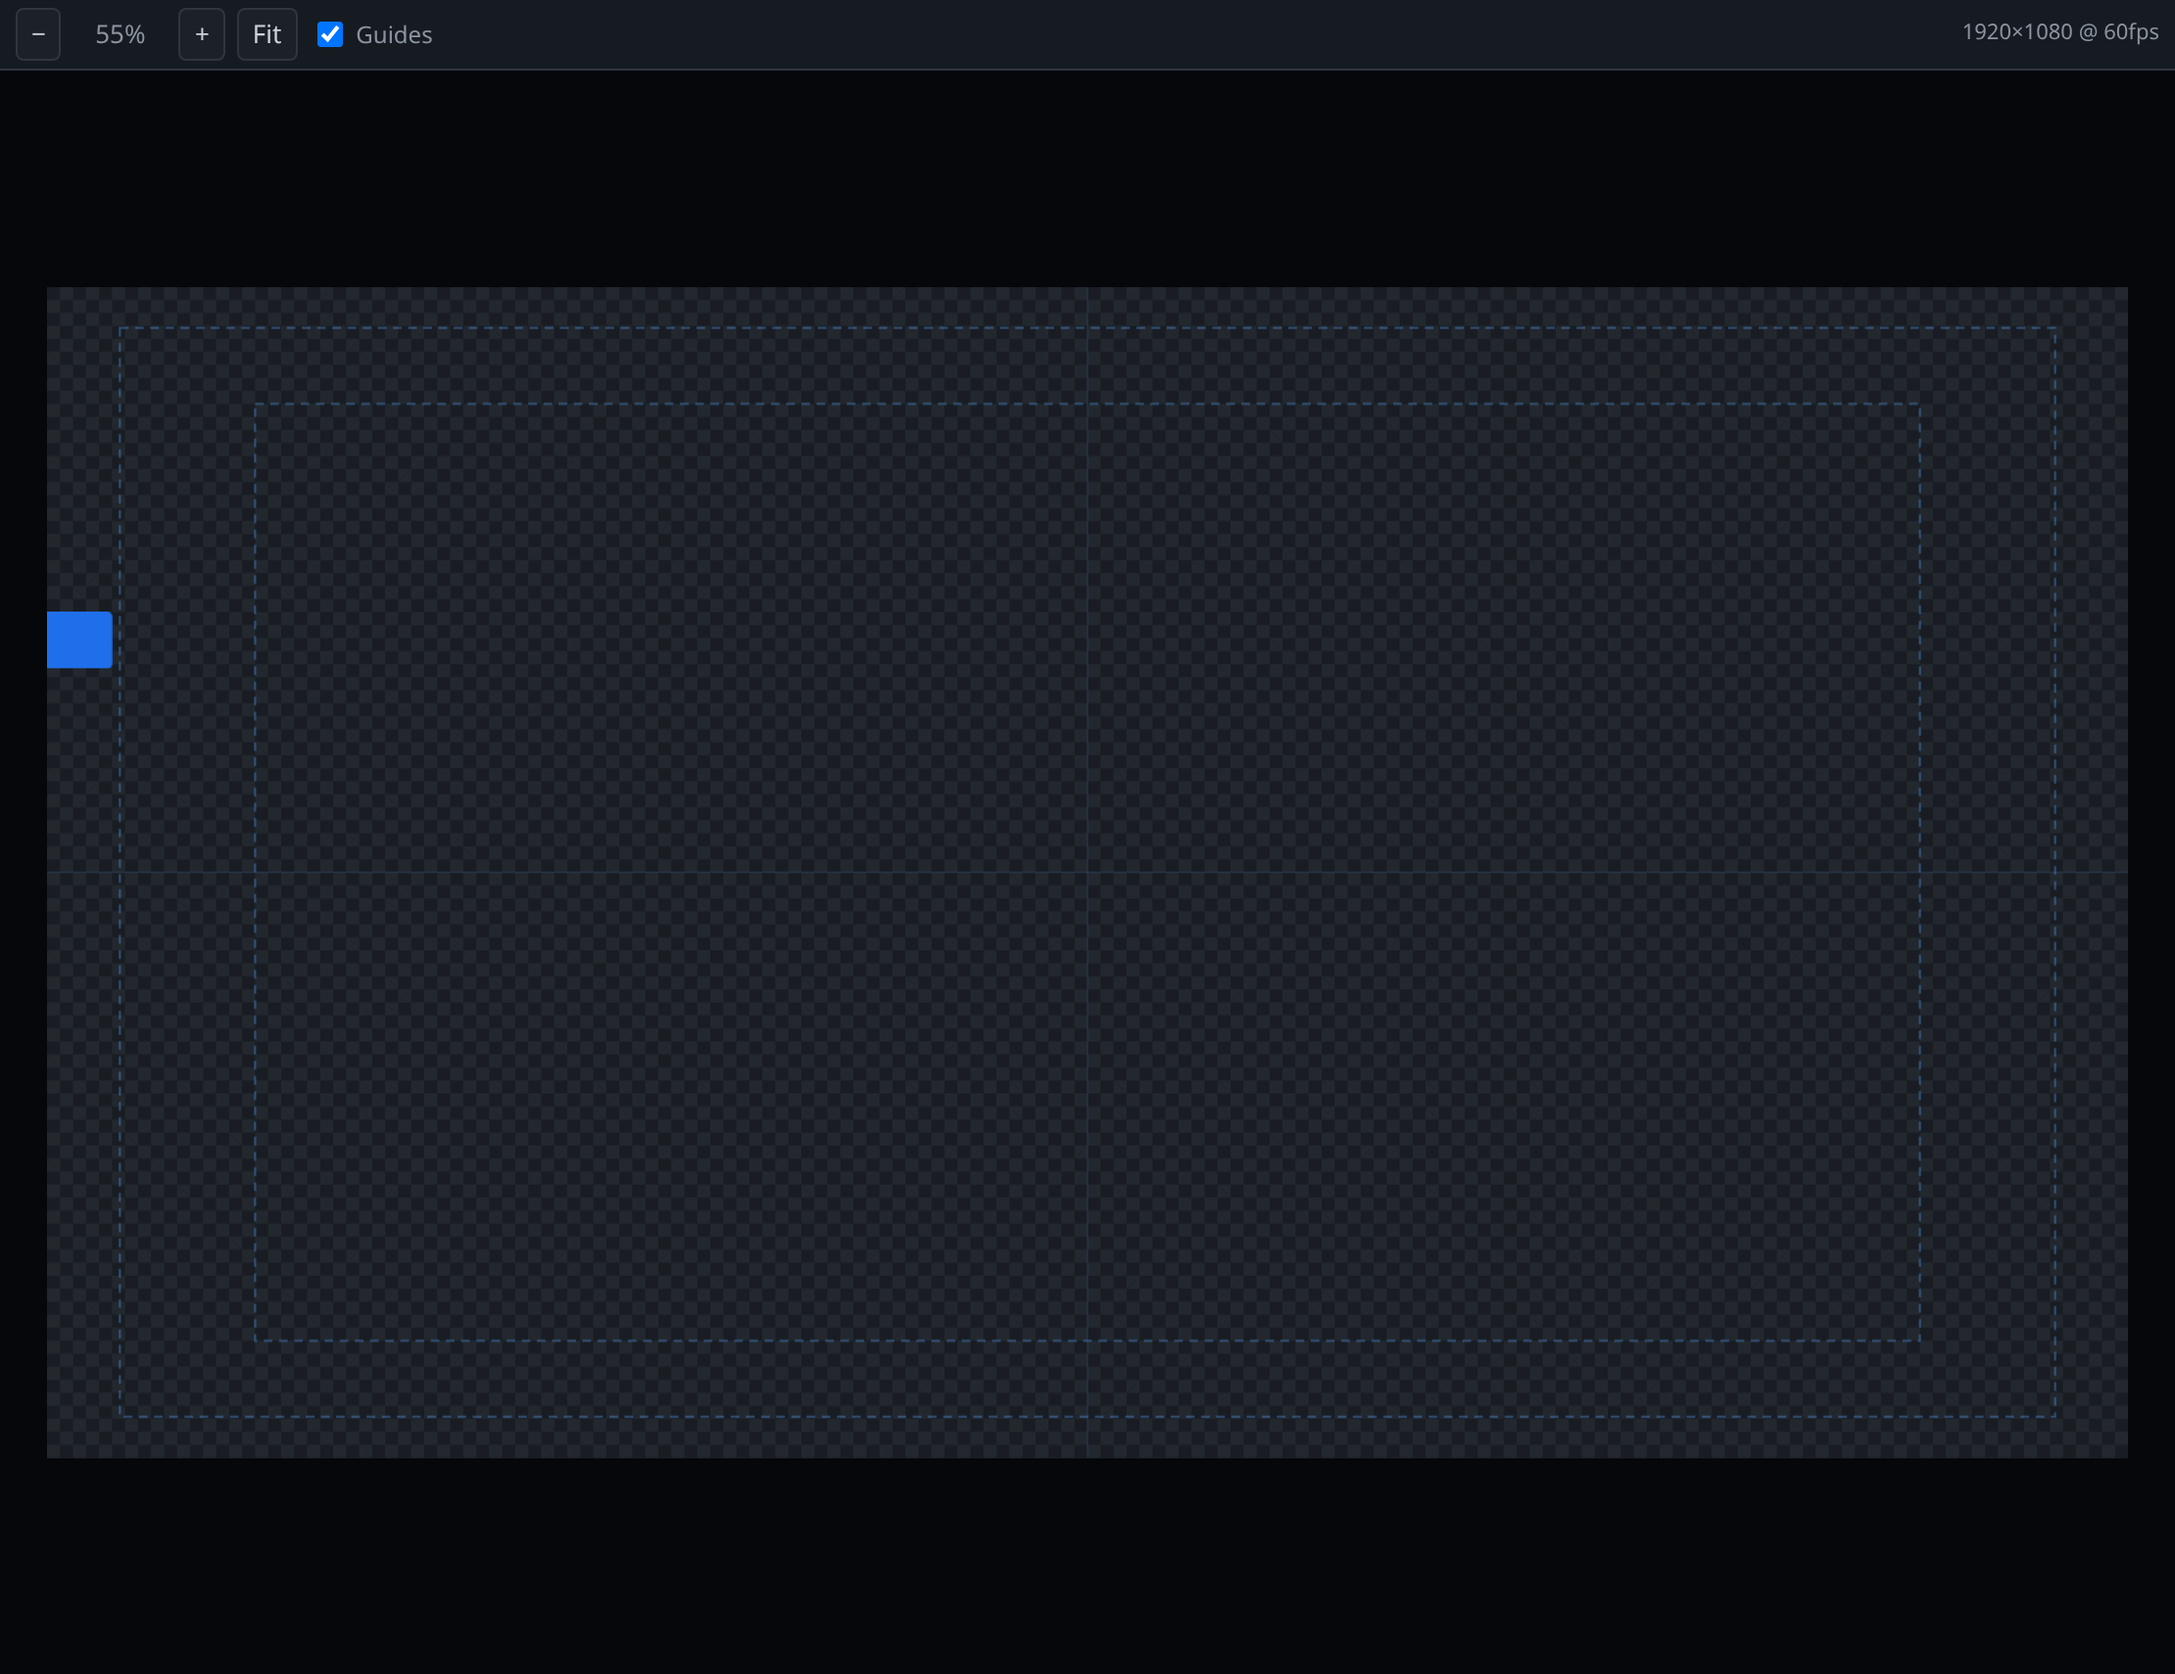
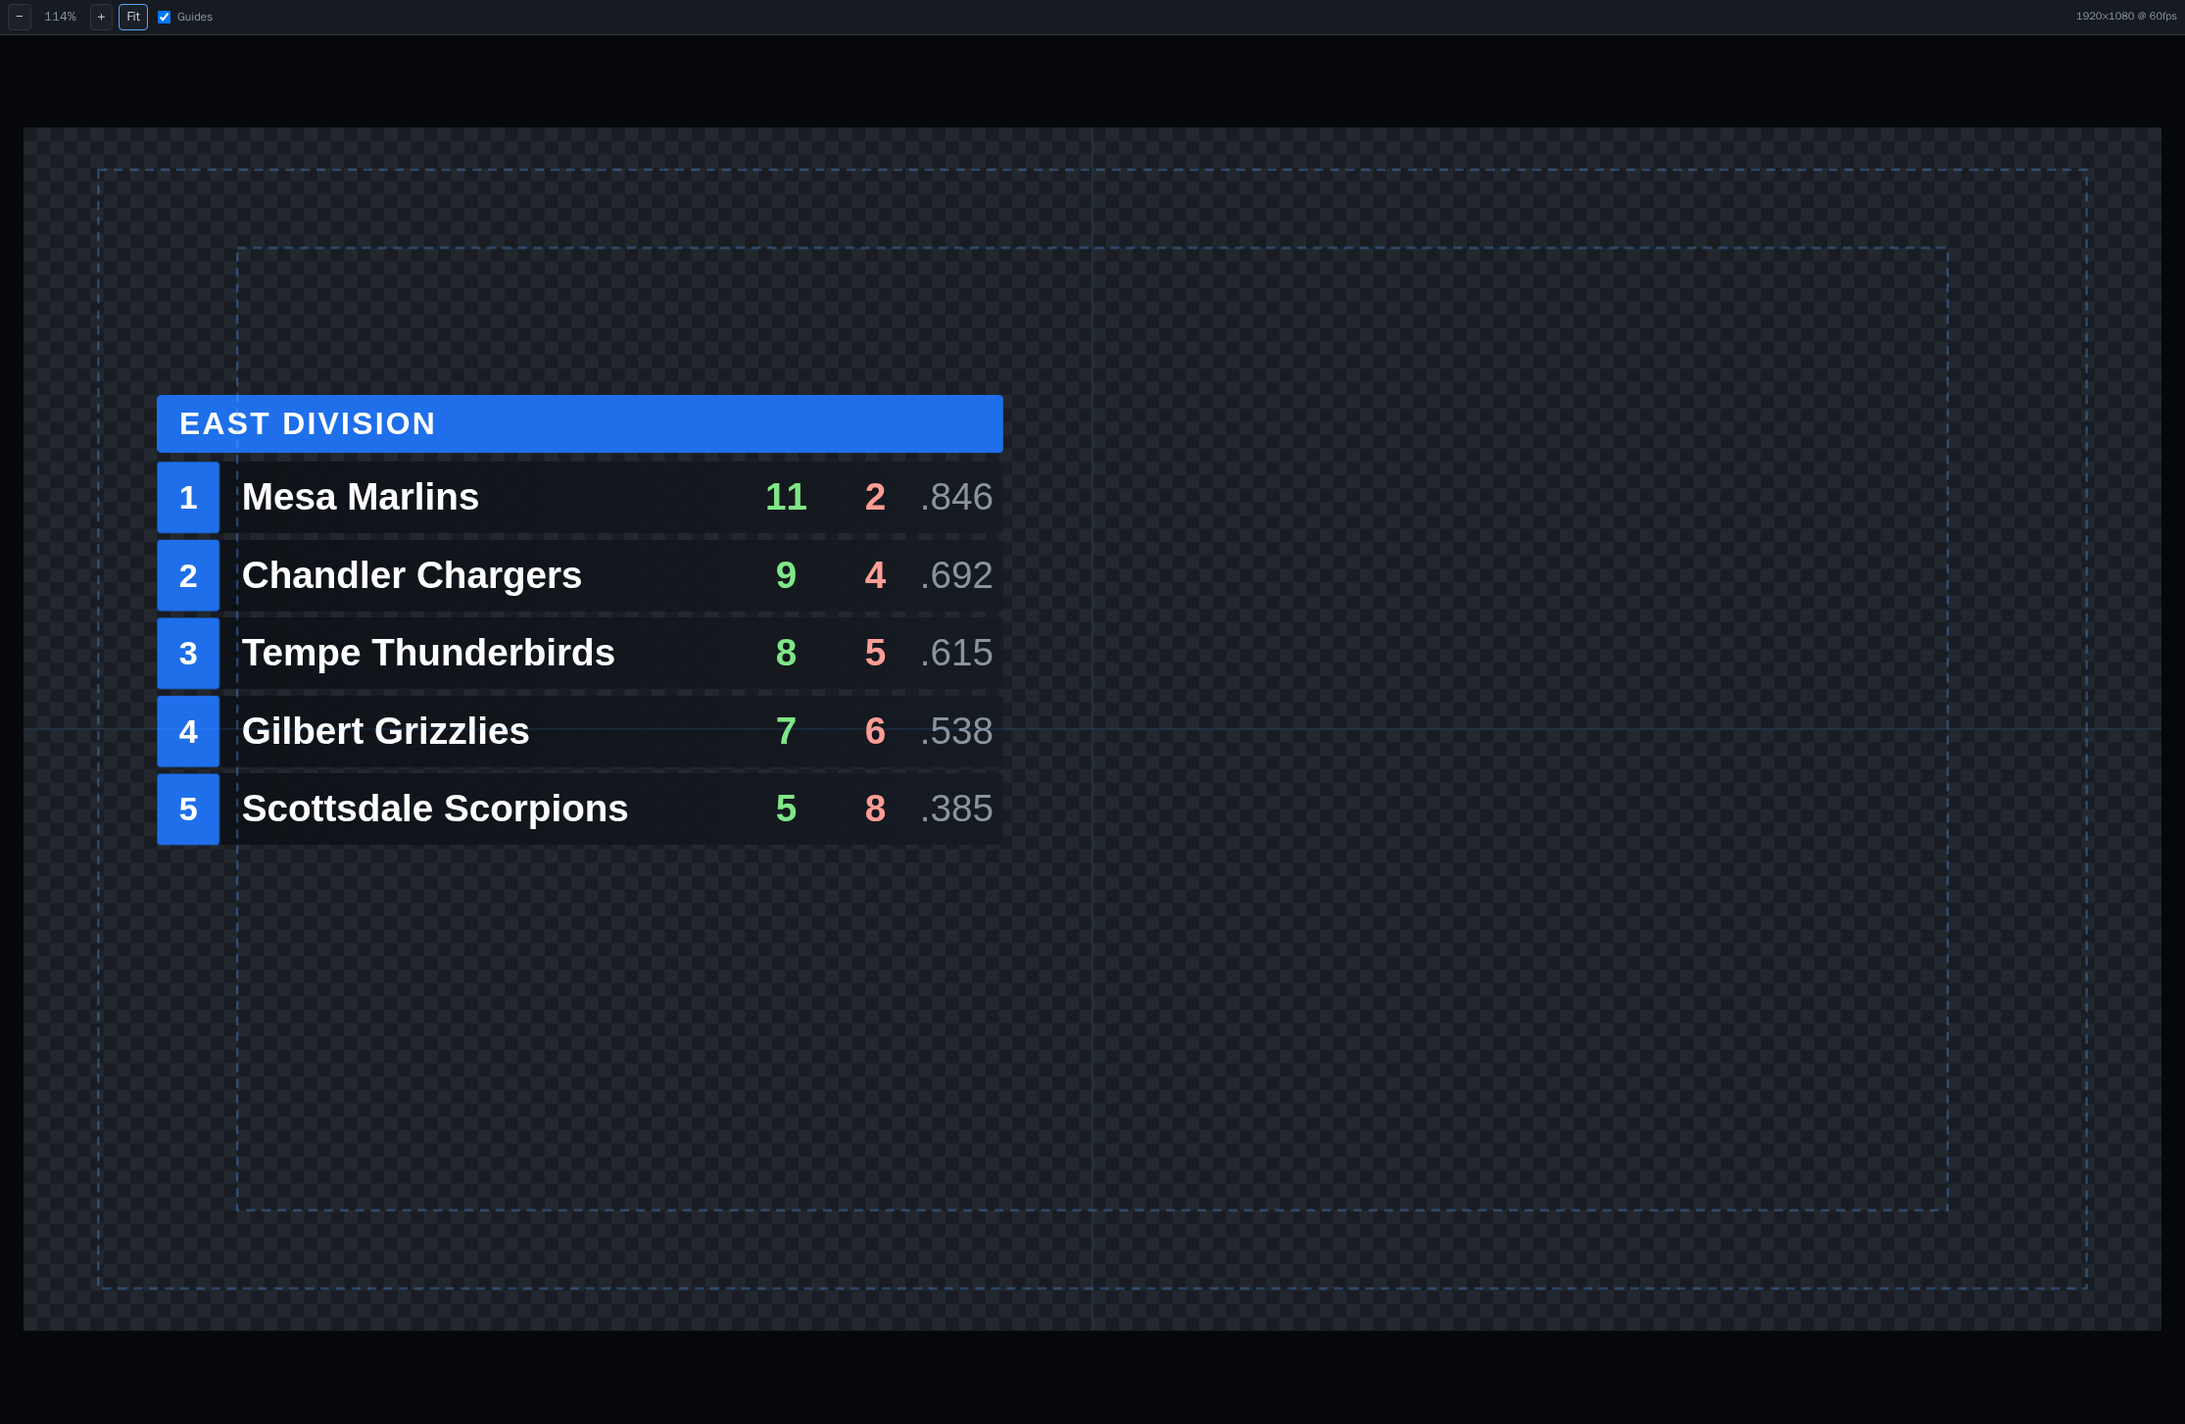
v0.68.2 - Rename of example breeze-demo, updates to user guide

diff --git a/apps/server/src/seed.ts b/apps/server/src/seed.ts
@@ -72,11 +72,11 @@ export interface Demo {
 export const DEMOS: Demo[] = [
   { file: 'world-cup-scene.json', sources: 'world-cup-datasources.json' },
   { file: 'world-cup-bracket.json', sources: 'world-cup-datasources.json' },
-  { file: 'lower-third.json', sources: 'datasources.json' },
+  { file: 'breeze-demo.json', sources: 'datasources.json' },
 ];
 
 /* Kept for the tests and tooling that reference the original demo by name. */
-export const EXAMPLE_PROJECT_PATH = examples('lower-third.json');
+export const EXAMPLE_PROJECT_PATH = examples('breeze-demo.json');
 export const EXAMPLE_DATASOURCES_PATH = examples('datasources.json');
 
 export async function loadExampleProject(): Promise<Project> {

diff --git a/packages/schema/src/__tests__/validate.test.ts b/packages/schema/src/__tests__/validate.test.ts
@@ -17,7 +17,7 @@ import { compositionDuration, validateComposition, validateProject } from '../va
 import type { Composition, Project } from '../types.js';
 
 const here = path.dirname(fileURLToPath(import.meta.url));
-const examplePath = path.resolve(here, '../../../../examples/lower-third.json');
+const examplePath = path.resolve(here, '../../../../examples/breeze-demo.json');
 const example = JSON.parse(readFileSync(examplePath, 'utf8')) as Project;
 
 // Look compositions up by id, not array position — adding one to the example

diff --git a/packages/runtime/src/__tests__/plan.test.ts b/packages/runtime/src/__tests__/plan.test.ts
@@ -16,7 +16,7 @@ import { cubicBezier, resolveEase, sampleEase, steppedEase } from '../ease.js';
 import { buildPlan, evaluatePlan, nextHoldAfter } from '../plan.js';
 
 const here = path.dirname(fileURLToPath(import.meta.url));
-const examplePath = path.resolve(here, '../../../../examples/lower-third.json');
+const examplePath = path.resolve(here, '../../../../examples/breeze-demo.json');
 const project = JSON.parse(readFileSync(examplePath, 'utf8')) as Project;
 const lowerThird = project.compositions[0] as Composition;
 

diff --git a/integrations/companion-module-breeze-overlay/src/upgrades.ts b/integrations/companion-module-breeze-overlay/src/upgrades.ts
@@ -1,9 +1,5 @@
-// This Source Code Form is subject to the terms of the Mozilla Public
-// License, v. 2.0. If a copy of the MPL was not distributed with this
-// file, You can obtain one at https://mozilla.org/MPL/2.0/.
-//
 // Copyright (C) 2026 Dave Clark
-// SPDX-License-Identifier: MPL-2.0
+// SPDX-License-Identifier: MIT
 
 import type { CompanionStaticUpgradeScript } from '@companion-module/base'
 import type { ModuleConfig, ModuleSecrets } from './config.js'

diff --git a/packages/runtime/src/__tests__/runtime.dom.test.ts b/packages/runtime/src/__tests__/runtime.dom.test.ts
@@ -33,7 +33,7 @@ import { installGlobals } from '../globals.js';
 
 const here = path.dirname(fileURLToPath(import.meta.url));
 const project = JSON.parse(
-  readFileSync(path.resolve(here, '../../../../examples/lower-third.json'), 'utf8'),
+  readFileSync(path.resolve(here, '../../../../examples/breeze-demo.json'), 'utf8'),
 ) as Project;
 const byId = new Map(project.compositions.map((c) => [c.id, c]));
 const lowerThird = byId.get('l3rd-name') as Composition;

diff --git a/integrations/companion-module-breeze-overlay/src/actions.ts b/integrations/companion-module-breeze-overlay/src/actions.ts
@@ -1,9 +1,5 @@
-// This Source Code Form is subject to the terms of the Mozilla Public
-// License, v. 2.0. If a copy of the MPL was not distributed with this
-// file, You can obtain one at https://mozilla.org/MPL/2.0/.
-//
 // Copyright (C) 2026 Dave Clark
-// SPDX-License-Identifier: MPL-2.0
+// SPDX-License-Identifier: MIT
 
 import { InstanceStatus } from '@companion-module/base'
 import type ModuleInstance from './main.js'

diff --git a/integrations/companion-module-breeze-overlay/src/feedbacks.ts b/integrations/companion-module-breeze-overlay/src/feedbacks.ts
@@ -1,9 +1,5 @@
-// This Source Code Form is subject to the terms of the Mozilla Public
-// License, v. 2.0. If a copy of the MPL was not distributed with this
-// file, You can obtain one at https://mozilla.org/MPL/2.0/.
-//
 // Copyright (C) 2026 Dave Clark
-// SPDX-License-Identifier: MPL-2.0
+// SPDX-License-Identifier: MIT
 
 import { combineRgb } from '@companion-module/base'
 import type ModuleInstance from './main.js'

diff --git a/packages/runtime/src/__tests__/expand.test.ts b/packages/runtime/src/__tests__/expand.test.ts
@@ -18,7 +18,7 @@ import { buildPlan, derivedDuration } from '../plan.js';
 
 const here = path.dirname(fileURLToPath(import.meta.url));
 const project = JSON.parse(
-  readFileSync(path.resolve(here, '../../../../examples/lower-third.json'), 'utf8'),
+  readFileSync(path.resolve(here, '../../../../examples/breeze-demo.json'), 'utf8'),
 ) as Project;
 
 const byId = new Map(project.compositions.map((c) => [c.id, c]));

diff --git a/integrations/companion-module-breeze-overlay/src/config.ts b/integrations/companion-module-breeze-overlay/src/config.ts
@@ -1,9 +1,5 @@
-// This Source Code Form is subject to the terms of the Mozilla Public
-// License, v. 2.0. If a copy of the MPL was not distributed with this
-// file, You can obtain one at https://mozilla.org/MPL/2.0/.
-//
 // Copyright (C) 2026 Dave Clark
-// SPDX-License-Identifier: MPL-2.0
+// SPDX-License-Identifier: MIT
 
 import { Regex, type SomeCompanionConfigField } from '@companion-module/base'
 

diff --git a/integrations/companion-module-breeze-overlay/src/main.ts b/integrations/companion-module-breeze-overlay/src/main.ts
@@ -1,9 +1,5 @@
-// This Source Code Form is subject to the terms of the Mozilla Public
-// License, v. 2.0. If a copy of the MPL was not distributed with this
-// file, You can obtain one at https://mozilla.org/MPL/2.0/.
-//
 // Copyright (C) 2026 Dave Clark
-// SPDX-License-Identifier: MPL-2.0
+// SPDX-License-Identifier: MIT
 
 /**
  * Bitfocus Companion connection module for Breeze Overlay.

diff --git a/integrations/companion-module-breeze-overlay/src/api.ts b/integrations/companion-module-breeze-overlay/src/api.ts
@@ -1,9 +1,5 @@
-// This Source Code Form is subject to the terms of the Mozilla Public
-// License, v. 2.0. If a copy of the MPL was not distributed with this
-// file, You can obtain one at https://mozilla.org/MPL/2.0/.
-//
 // Copyright (C) 2026 Dave Clark
-// SPDX-License-Identifier: MPL-2.0
+// SPDX-License-Identifier: MIT
 
 /**
  * The Breeze HTTP control API, as this module uses it.

diff --git a/integrations/companion-module-breeze-overlay/src/presets.ts b/integrations/companion-module-breeze-overlay/src/presets.ts
@@ -1,9 +1,5 @@
-// This Source Code Form is subject to the terms of the Mozilla Public
-// License, v. 2.0. If a copy of the MPL was not distributed with this
-// file, You can obtain one at https://mozilla.org/MPL/2.0/.
-//
 // Copyright (C) 2026 Dave Clark
-// SPDX-License-Identifier: MPL-2.0
+// SPDX-License-Identifier: MIT
 
 /**
  * Ready-made buttons, one set per addressable graphic.
